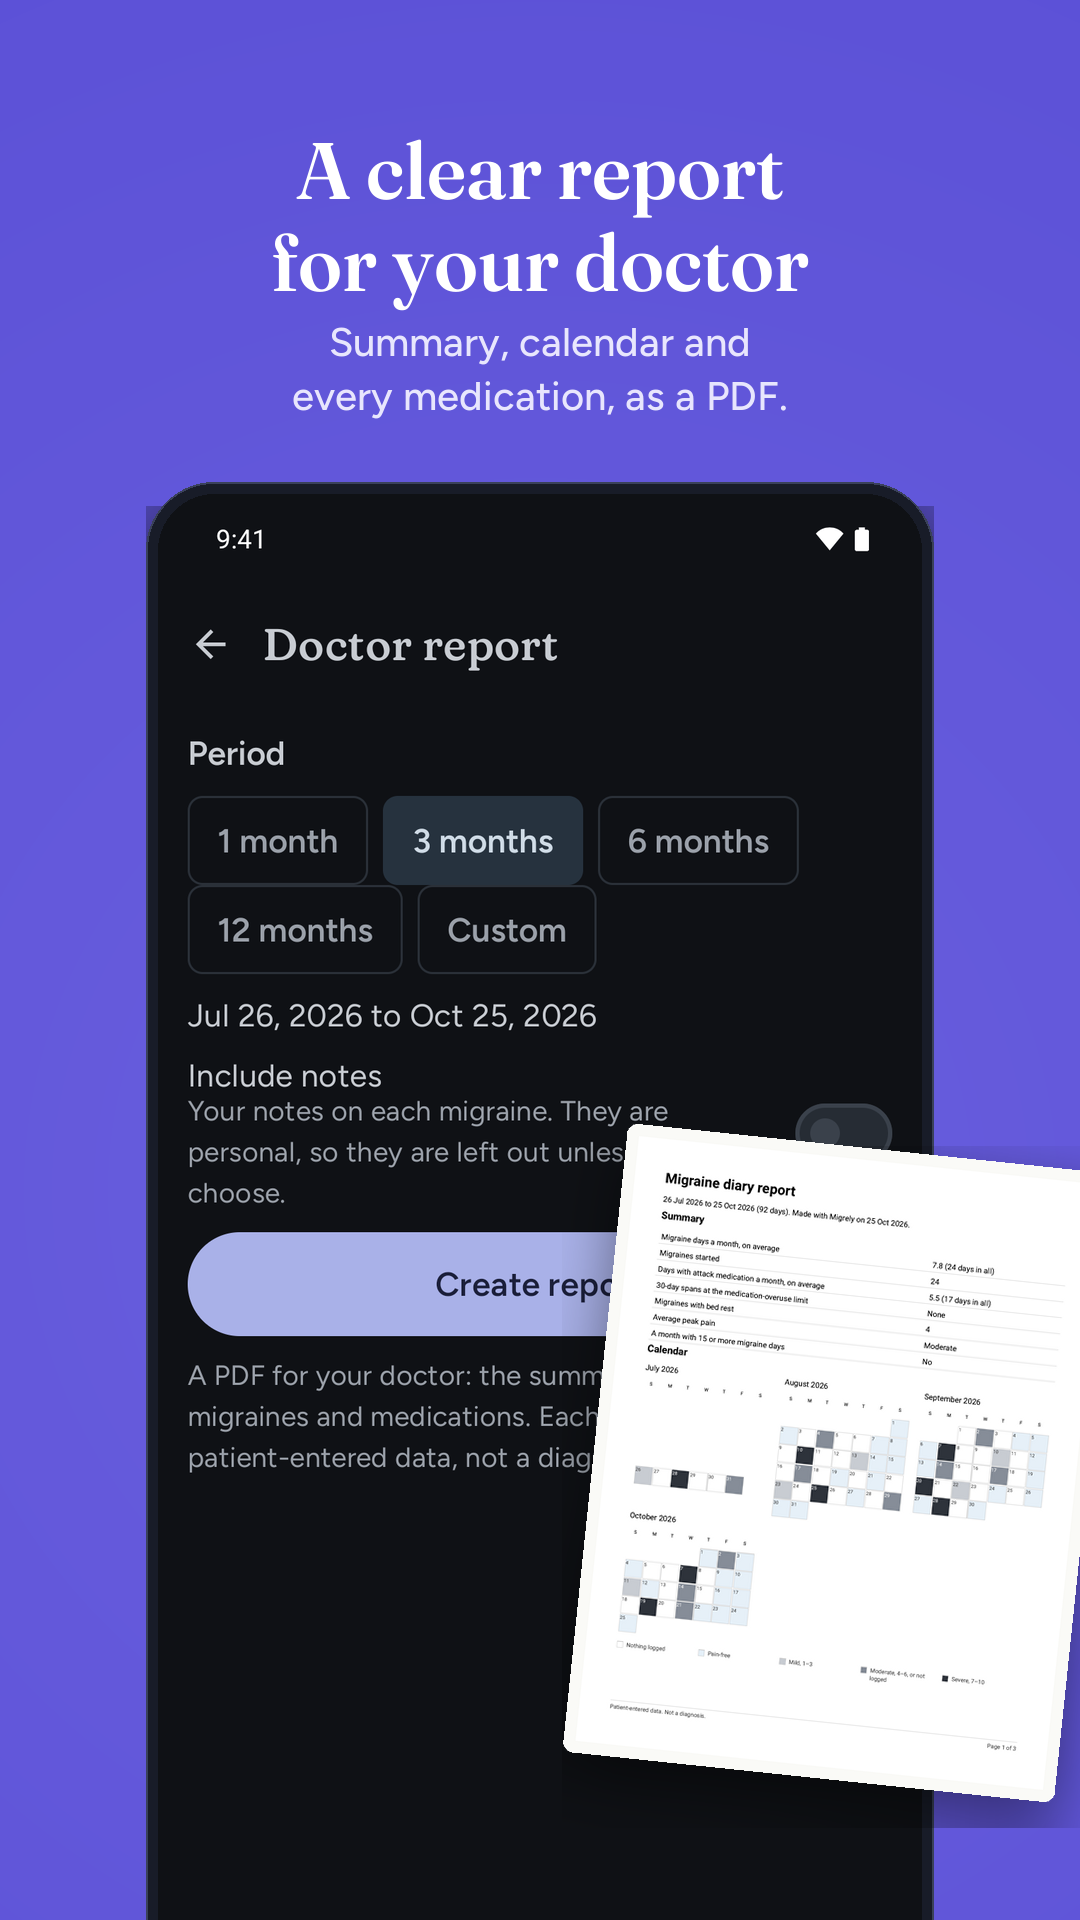
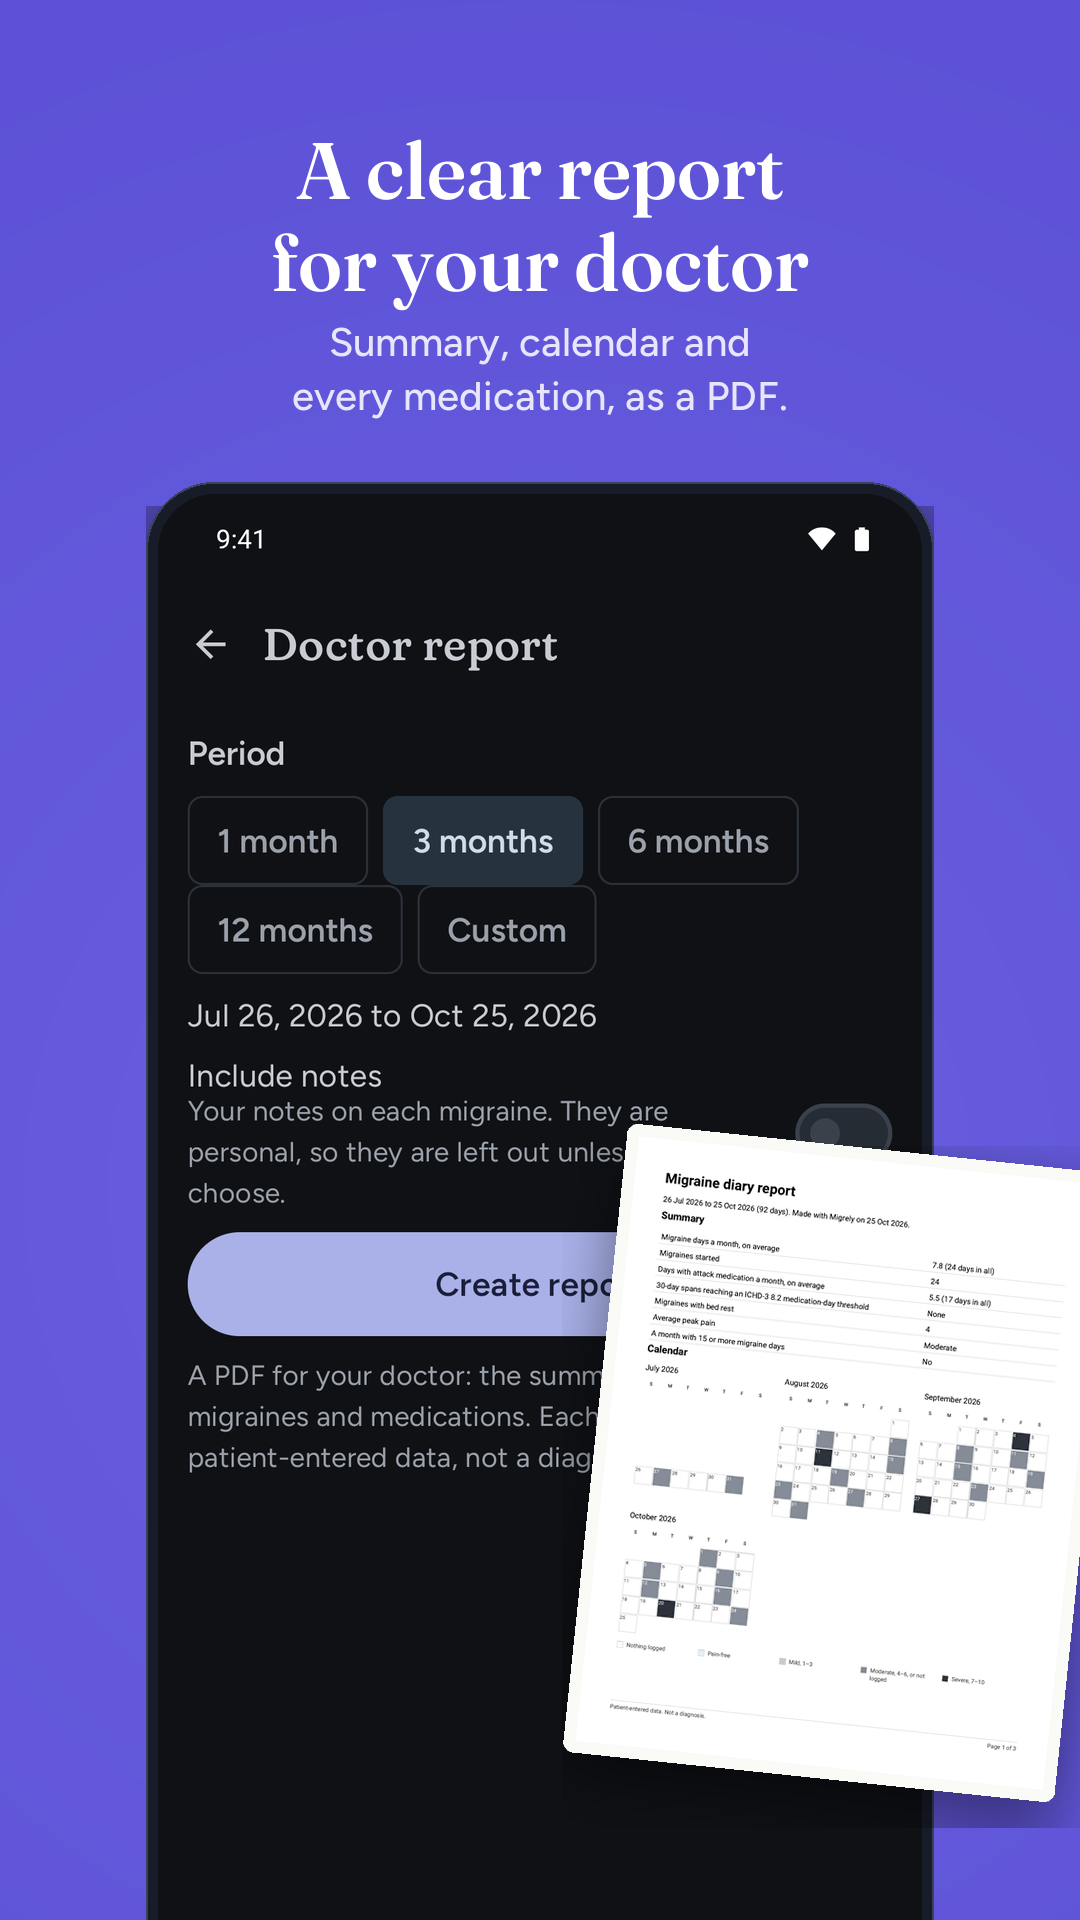
Use the medical-passed 03-report store screenshot and site image
The committed 03-report.png and the site's 03-report.webp still showed the old
PDF row "30-day spans at the medication-overuse limit". The corrected capture
from 1.1.1 (medical-reviewer PASS 2026-11-09) reads "30-day spans reaching an
ICHD-3 8.2 medication-day threshold". compose.py already reproduces it byte for
byte from the current raw files. The site image ships as 03-report-v2.webp
because /assets/ is immutable (EC-WEB-20).

Refs #209

Changed region(s): [[0.7028, 0.7188, 0.9778, 0.8125], [0.5806, 0.7812, 0.7028, 0.8438], [0.5806, 0.75, 0.6417, 0.7812]]

diff --git a/website/public/index.html b/website/public/index.html
@@ -56,7 +56,7 @@
   </figure>
 </section>
 
-<section class="shots" aria-label="Screens from Migrely"><div class="wrap strip"><figure><img src="/assets/img/01-log.webp" alt="Attack mode: Rest now, we will keep time" width="360" height="640" loading="lazy"></figure><figure><img src="/assets/img/02-sky-v2.webp" alt="Your month as a calm night sky" width="360" height="640" loading="lazy"></figure><figure><img src="/assets/img/03-report.webp" alt="A clear report for your doctor" width="360" height="640" loading="lazy"></figure><figure><img src="/assets/img/04-insights.webp" alt="Triggers and patterns in your migraines" width="360" height="640" loading="lazy"></figure></div></section>
+<section class="shots" aria-label="Screens from Migrely"><div class="wrap strip"><figure><img src="/assets/img/01-log.webp" alt="Attack mode: Rest now, we will keep time" width="360" height="640" loading="lazy"></figure><figure><img src="/assets/img/02-sky-v2.webp" alt="Your month as a calm night sky" width="360" height="640" loading="lazy"></figure><figure><img src="/assets/img/03-report-v2.webp" alt="A clear report for your doctor" width="360" height="640" loading="lazy"></figure><figure><img src="/assets/img/04-insights.webp" alt="Triggers and patterns in your migraines" width="360" height="640" loading="lazy"></figure></div></section>
 
 <section class="wrap block"><h2>Everything a migraine diary should be</h2><div class="features"><article><h3>Log in seconds</h3><p>One tap when a migraine starts, even in a dark room. Migrely keeps the time while you rest, and you can add the details later.</p></article><article><h3>Your month as a calm sky</h3><p>Every day is drawn from what you logged: clear, hazy, cloudy or a storm. Patterns show at a glance, with period and pain-free days marked.</p></article><article><h3>Watch your medication days</h3><p>A gentle note when painkillers or triptans reach the days a month that can make headaches more frequent, so you can talk to your doctor in time.</p></article><article><h3>A report for your doctor</h3><p>A clear PDF with a summary, a calendar and every migraine and medication, ready to share at your appointment.</p></article><article><h3>See what your migraines share</h3><p>Triggers often logged with your migraines, the days and hours they come, the days around your period and how you rated your medicines.</p></article><article><h3>Gentle on your eyes</h3><p>Dark by default, light if you like, and always dark during a migraine. Large text, TalkBack and keyboards work throughout.</p></article></div></section>
 

diff --git a/website/build.py b/website/build.py
@@ -394,7 +394,7 @@ def home():
         f'<figure><img src="/assets/img/{name}.webp" alt="{esc(alt)}" width="360" height="640" loading="lazy"></figure>'
         for name, alt in [('01-log', 'Attack mode: Rest now, we will keep time'),
                           ('02-sky-v2', 'Your month as a calm night sky'),
-                          ('03-report', 'A clear report for your doctor'),
+                          ('03-report-v2', 'A clear report for your doctor'),
                           ('04-insights', 'Triggers and patterns in your migraines')])
     features = ''.join(f'<article><h3>{esc(t)}</h3><p>{esc(d)}</p></article>' for t, d in FEATURES)
     scenes = ''.join(f'<li>{esc(scene)}</li>' for scene in PROMO_SCENES)
@@ -1396,9 +1396,9 @@ def not_found():
 def images():
     img = ASSETS / 'img'
     img.mkdir(parents=True, exist_ok=True)
-    # /assets/ is immutable for a year, so a changed picture gets a new name (EC-WEB-20): 02-sky-v2 is the store
+    # /assets/ is immutable for a year, so a changed picture gets a new name (EC-WEB-20): 02-sky-v2 and 03-report-v2 are the store
     # screenshot 02-sky without the green "fewer migraine days" line (#209). Bump the suffix for the next change.
-    for name in ['01-log', '02-sky-v2', '03-report', '04-insights']:
+    for name in ['01-log', '02-sky-v2', '03-report-v2', '04-insights']:
         src = STORE_ART / 'screenshots' / f'{name.removesuffix("-v2")}.png'
         tmp = img / f'{name}.png'
         Image.open(src).convert('RGB').resize((720, 1280), Image.LANCZOS).save(tmp)
